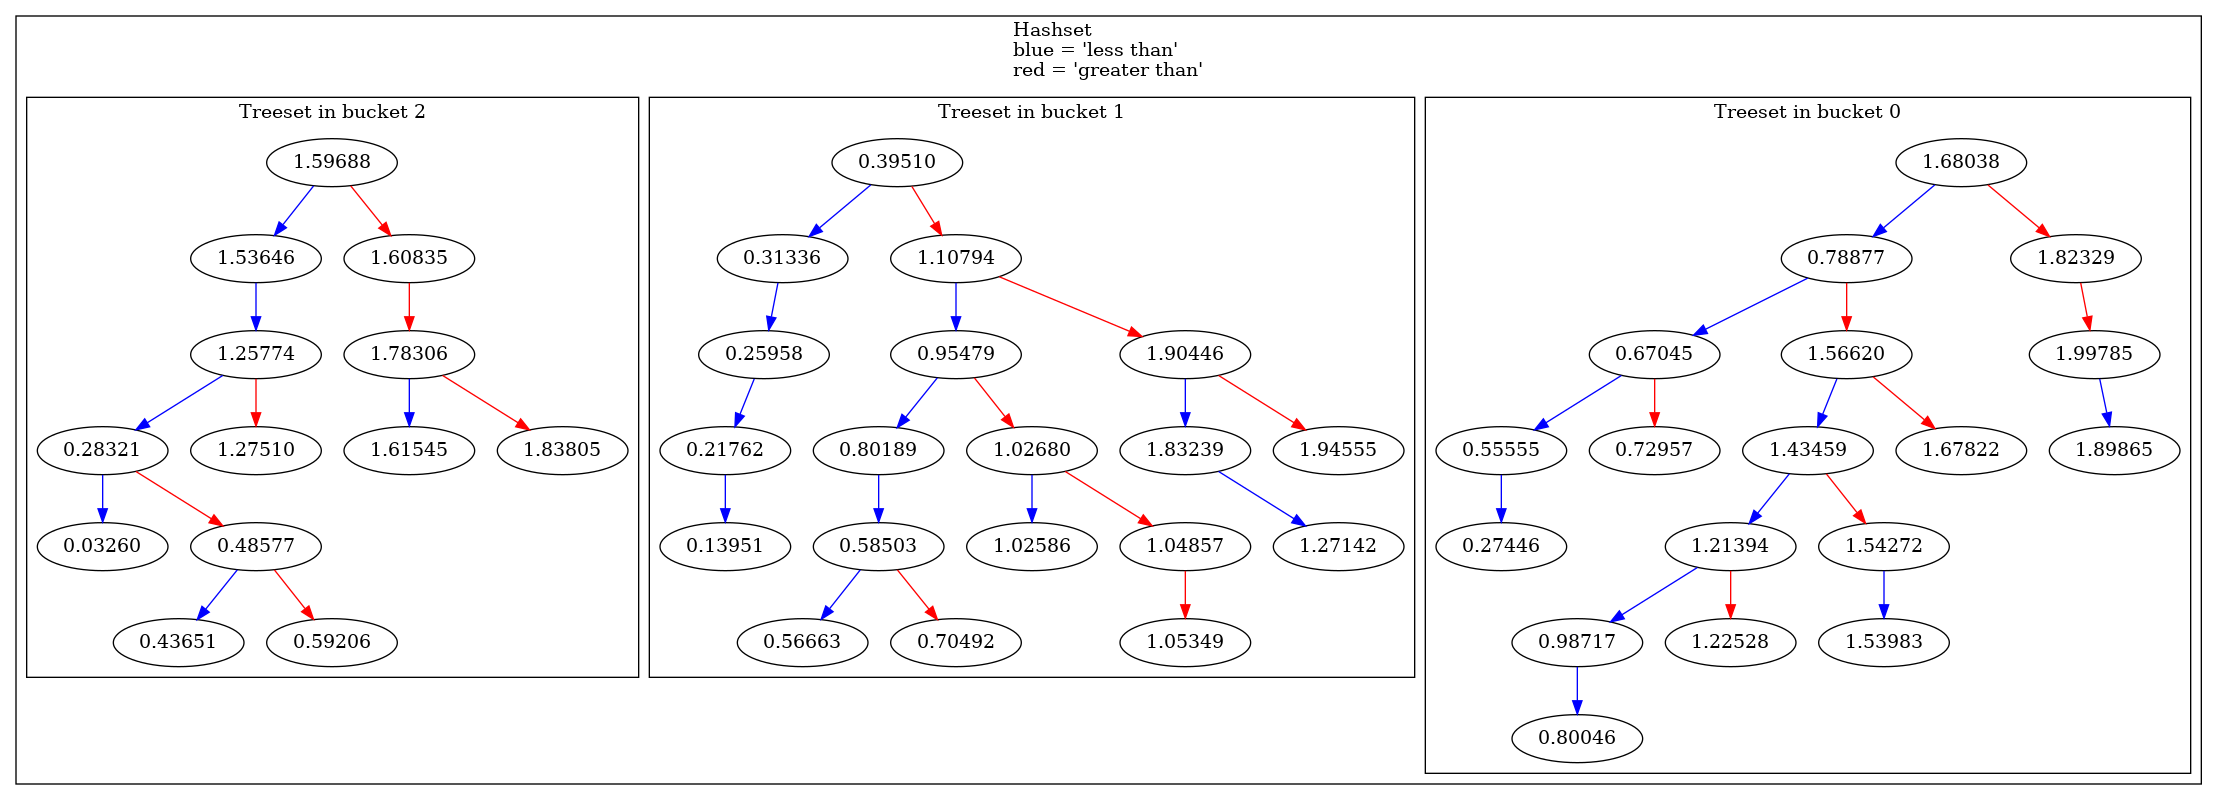
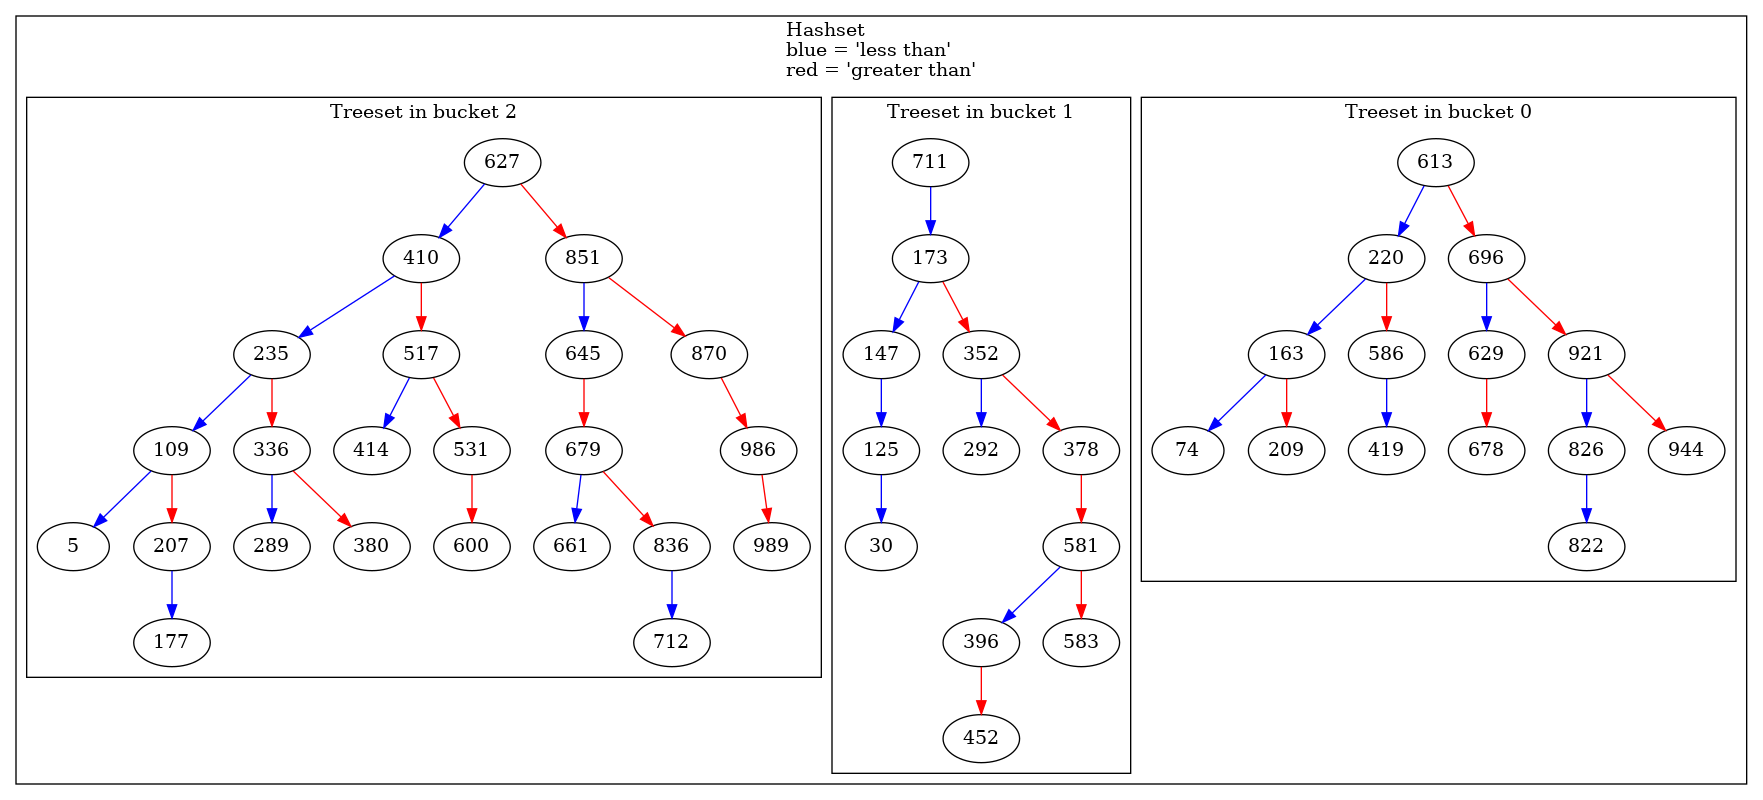
change hashset.png to contain integers

diff --git a/samples/dotfilegenerator.c b/samples/dotfilegenerator.c
@@ -164,15 +164,15 @@ void generate_dotfile(const treenode* tn)
 
 int main()
 {
-  /*
-  hashset* hs = hashset_new(3, 0x0123456789ABCDEF);
+  srand(time(NULL));
+  hashset* hs = hashset_new(3, rand());
   for (int i = 0; i < 50; i++)
   {
     short num = rand() % 1000;
     hashset_add(hs, datacont_new(&num, SHORT, 1));
   }
-  */
-
+  
+/*
   treeset* ts = treeset_new();
   for (int i = 0; i < 10; i++)
   {
@@ -183,6 +183,7 @@ int main()
 
     treeset_add(ts, datacont_new(&numlist, FLOATP, numitems));
   }
+*/
   /*
   treeset* ts = treeset_new();
 
@@ -190,13 +191,13 @@ int main()
   treeset_add(ts, datacont_new("FOO", CHARP, 3));
   treeset_add(ts, datacont_new("BAR", CHARP, 3));
   */
-  printf("\ndigraph G {\n");
+/*  printf("\ndigraph G {\n");
   printf("subgraph cluster_t {\n");
   printf("label = \"Treeset\";\n");
   generate_dotfile(ts->root);
   printf("}\n}\n\n");
-
-  /*
+*/
+  
   printf("digraph G {\n");
   printf("subgraph cluster_h {\n");
   printf("label = \"Hashset\\lblue = 'less than'\\lred = 'greater than'\";");
@@ -209,7 +210,7 @@ int main()
     printf("}\n");
   }
   printf("}\n}\n");
-  */
+  
   return 0;
 }
 
